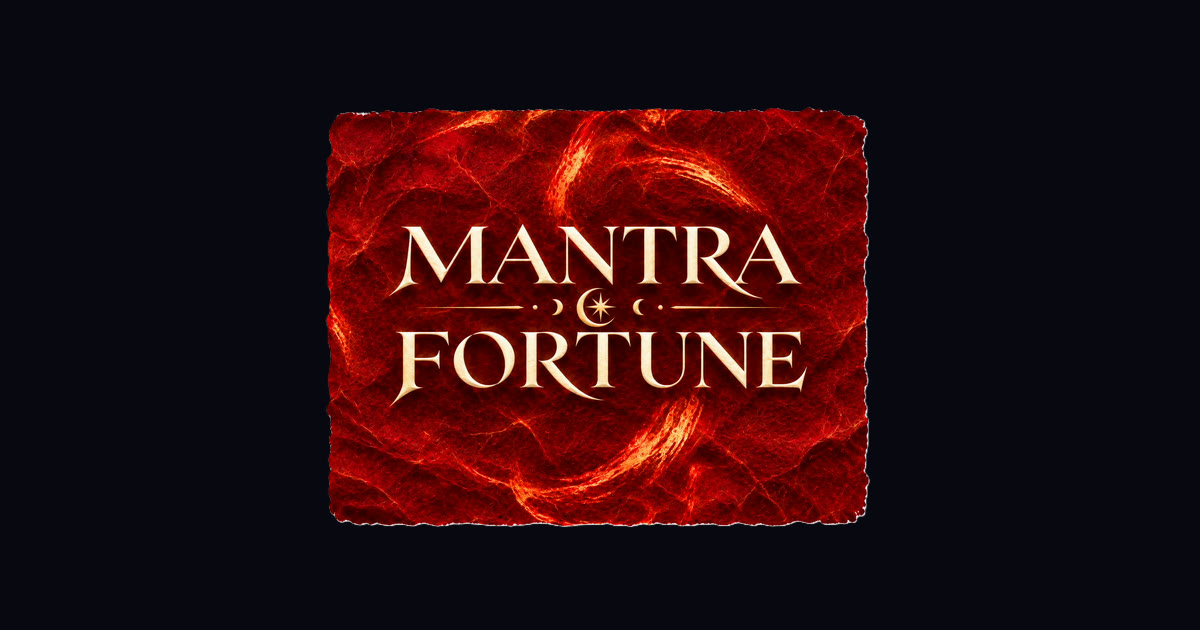
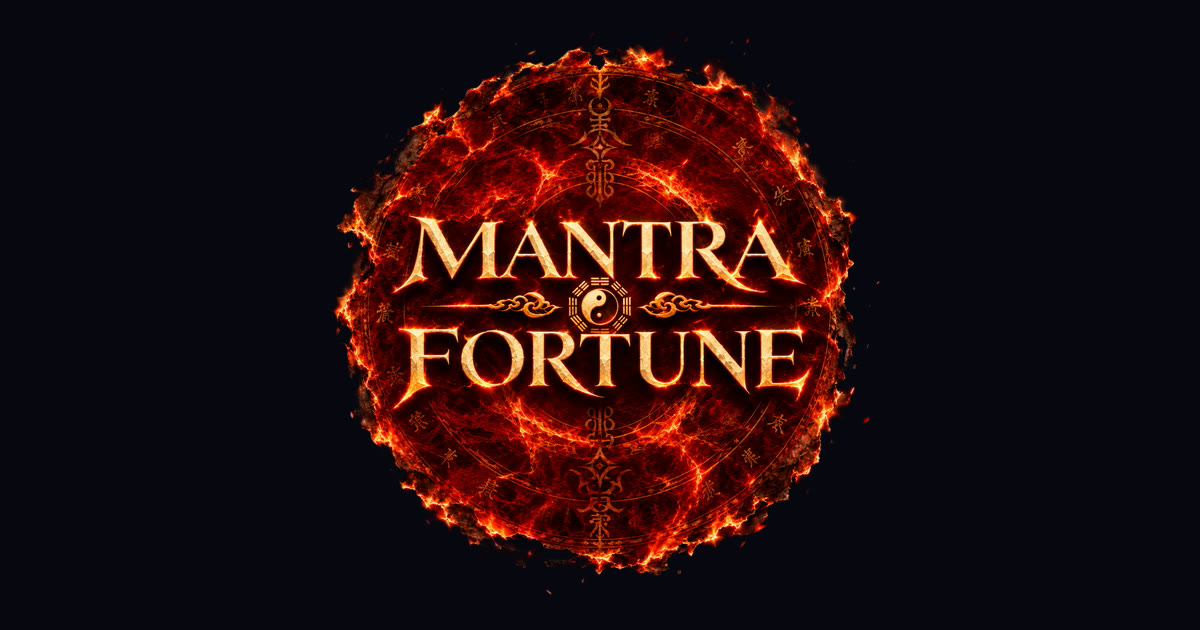
/report/ 로고를 새 불꽃 원형 로고로 교체(머리줄·커버·탭 아이콘·홈 화면 아이콘·공유 미리보기·공유 카드·PDF 표지)
- report/brand/ 6개 파일 정사각형으로 다시 만듦(320·640 webp, 64 favicon, 180 apple, og 1200x630)
- 참조에 ?v=20261120-fire, img width/height 정사각형으로

Changed region(s): [[0.2467, 0.0603, 0.74, 0.9349]]

diff --git a/report/index.html b/report/index.html
@@ -4,14 +4,14 @@
 <meta charset="utf-8">
 <meta name="viewport" content="width=device-width, initial-scale=1">
 <title>내 이야기의 시작 · 만트라 사주 무빙툰</title>
-<link rel="icon" type="image/png" sizes="64x64" href="/report/brand/favicon-64.png">
-<link rel="apple-touch-icon" href="/report/brand/apple-touch-icon.png">
-<meta property="og:image" content="https://mantrafortune.com/report/brand/og-image.jpg">
+<link rel="icon" type="image/png" sizes="64x64" href="/report/brand/favicon-64.png?v=20261120-fire">
+<link rel="apple-touch-icon" href="/report/brand/apple-touch-icon.png?v=20261120-fire">
+<meta property="og:image" content="https://mantrafortune.com/report/brand/og-image.jpg?v=20261120-fire">
 <meta property="og:image:width" content="1200">
 <meta property="og:image:height" content="630">
 <meta property="og:image:alt" content="만트라 포춘 MANTRA FORTUNE 로고">
 <meta name="twitter:card" content="summary_large_image">
-<meta name="twitter:image" content="https://mantrafortune.com/report/brand/og-image.jpg">
+<meta name="twitter:image" content="https://mantrafortune.com/report/brand/og-image.jpg?v=20261120-fire">
 <meta name="description" content="내 사주를 읽고 보는 이야기로. 기질과 관계, 일과 돈, 인생의 흐름을 무빙툰으로 체험하세요.">
 <meta property="og:title" content="내 이야기의 시작 · 만트라 사주 무빙툰">
 <meta property="og:description" content="사람마다 잘되는 시기가 다릅니다. 나의 기질과 올해의 흐름을 확인해 보세요.">
@@ -386,7 +386,7 @@ footer { padding: 70px 0 60px; color: var(--ink-3); font-size: .76rem; text-alig
   <script>/* 통합 첫 화면은 관리자가 열 때까지 숨김(functions/_gateway.js) — 열려 있을 때만 이 링크를 보여 준다. 자리는 그대로 두어 머리줄 배치가 흔들리지 않게 */
     (function () { try { fetch('/api/community/status', { cache: 'no-store' }).then(function (r) { return r.ok ? r.json() : null; }).then(function (d) { if (!d || d.gateway !== true) return; var a = document.getElementById('gateLink'); if (a) { a.style.visibility = ''; a.removeAttribute('tabindex'); a.removeAttribute('aria-hidden'); } }).catch(function () { }); } catch (e) { } })();
   </script>
-  <span class="brand" id="brandName"><img class="brand-mark" src="/report/brand/logo-320.webp" alt="" width="320" height="293" decoding="async"><span>만트라 포춘</span></span>
+  <span class="brand" id="brandName"><img class="brand-mark" src="/report/brand/logo-320.webp?v=20261120-fire" alt="" width="320" height="320" decoding="async"><span>만트라 포춘</span></span>
   <span class="r"><button type="button" id="skipLink">바로 분석하기</button></span>
 </header>
 <button type="button" id="autoBtn" hidden>⏸ 멈추기</button>

diff --git a/report/hub/index.html b/report/hub/index.html
@@ -4,14 +4,14 @@
 <meta charset="utf-8">
 <meta name="viewport" content="width=device-width, initial-scale=1, viewport-fit=cover">
 <title>운명의 이야기 · 만트라 포춘</title>
-<link rel="icon" type="image/png" sizes="64x64" href="/report/brand/favicon-64.png">
-<link rel="apple-touch-icon" href="/report/brand/apple-touch-icon.png">
-<meta property="og:image" content="https://mantrafortune.com/report/brand/og-image.jpg">
+<link rel="icon" type="image/png" sizes="64x64" href="/report/brand/favicon-64.png?v=20261120-fire">
+<link rel="apple-touch-icon" href="/report/brand/apple-touch-icon.png?v=20261120-fire">
+<meta property="og:image" content="https://mantrafortune.com/report/brand/og-image.jpg?v=20261120-fire">
 <meta property="og:image:width" content="1200">
 <meta property="og:image:height" content="630">
 <meta property="og:image:alt" content="만트라 포춘 MANTRA FORTUNE 로고">
 <meta name="twitter:card" content="summary_large_image">
-<meta name="twitter:image" content="https://mantrafortune.com/report/brand/og-image.jpg">
+<meta name="twitter:image" content="https://mantrafortune.com/report/brand/og-image.jpg?v=20261120-fire">
 <meta name="description" content="무료 타로 한 장으로 시작해 오늘의 운세, 나의 일주, 인생의 흐름까지 직접 눌러보며 만나는 사주 콘텐츠.">
 <meta property="og:title" content="운명의 이야기 · 만트라 포춘">
 <meta property="og:description" content="카드 한 장 뽑고, 오늘의 흐름과 나의 일주를 확인해 보세요.">
@@ -35,7 +35,7 @@
 <div class="glow" aria-hidden="true"></div>
 <header class="top" id="top">
   <button type="button" class="tb" id="tbBack" aria-label="뒤로">‹</button>
-  <a class="brand" href="#/" aria-label="허브 처음으로"><img class="brand-mark" src="/report/brand/logo-320.webp" alt="" width="320" height="293" decoding="async"><span>만트라 포춘</span></a>
+  <a class="brand" href="#/" aria-label="허브 처음으로"><img class="brand-mark" src="/report/brand/logo-320.webp?v=20261120-fire" alt="" width="320" height="320" decoding="async"><span>만트라 포춘</span></a>
   <a class="tb tr" href="/report/" id="tbLanding">처음 화면</a>
 </header>
 <main id="screen" tabindex="-1" aria-live="polite"></main>

diff --git a/report/v2/pdf.js b/report/v2/pdf.js
@@ -81,7 +81,7 @@
     var cov1 = rep.chapters[0] || {};
     // 1 표지
     var kw = [sd.dayMaster.el + ' 기운', sd.dominantGroup + ' 중심', sd.strength.band].concat(sd.sewoon && sd.sewoon.season ? ['올해 ' + S[sd.sewoon.season]] : []);
-    out.push('<div class="pg" style="--c:' + color + '"><div class="cov"><img class="lg" src="/report/brand/logo-320.webp" alt="MANTRA FORTUNE"><div class="k">MANTRA FORTUNE · 사주 무빙툰</div><h1>' + (who ? esc(who) + '님의<br>' : '') + '인생 사용설명서</h1><p>' + esc(sd.dayPillar.ko) + '일주 · ' + esc(sd.dayPillar.hanja) + '</p><div class="t">' + kw.slice(0, 4).map(function (k) { return '<span>' + esc(k) + '</span>'; }).join('') + '</div><p style="margin-top:46px;font-size:12px">' + esc(cov1.headline || '') + '</p><p style="margin-top:90px;font-size:10.5px">' + new Date().getFullYear() + ' · 이 리포트는 사주 구조를 바탕으로 한 참고용 콘텐츠입니다</p></div></div>'); n++;
+    out.push('<div class="pg" style="--c:' + color + '"><div class="cov"><img class="lg" src="/report/brand/logo-320.webp?v=20261120-fire" alt="MANTRA FORTUNE"><div class="k">MANTRA FORTUNE · 사주 무빙툰</div><h1>' + (who ? esc(who) + '님의<br>' : '') + '인생 사용설명서</h1><p>' + esc(sd.dayPillar.ko) + '일주 · ' + esc(sd.dayPillar.hanja) + '</p><div class="t">' + kw.slice(0, 4).map(function (k) { return '<span>' + esc(k) + '</span>'; }).join('') + '</div><p style="margin-top:46px;font-size:12px">' + esc(cov1.headline || '') + '</p><p style="margin-top:90px;font-size:10.5px">' + new Date().getFullYear() + ' · 이 리포트는 사주 구조를 바탕으로 한 참고용 콘텐츠입니다</p></div></div>'); n++;
     // 2 나의 사주
     var P = sd.pillars, cell = function (k, l) { var p = P[k]; return '<td>' + (p ? '<div style="font-size:21px;font-family:\'Noto Serif KR\',serif">' + esc(p.hanja) + '</div><div style="color:#6B6A63;font-size:11px">' + esc(p.ko) + '</div>' : '<span style="color:#9A978A">시간 모름</span>') + '</td>'; };
     var tg = function (k) { var p = P[k]; return '<td>' + (p ? esc((p.stemTG || '') + ' / ' + (p.branchTG || '')) : '-') + '</td>'; };

diff --git a/report/story/story.js b/report/story/story.js
@@ -695,7 +695,7 @@
     if (!cv || cv.show === false) { el.hidden = true; el.innerHTML = ''; return; }
     var url = media(cv.src), alt = pick(cv.alt) || '';
     // 2026-11-20 로고(MANTRA FORTUNE): 커버 이미지가 없으면 빛무리 가운데, 있으면 제목 위. cover.logo:false 로 끈다
-    var logoOn = cv.logo !== false, logo = function (cls) { return '<img class="' + cls + '" src="/report/brand/logo-640.webp" alt="만트라 포춘 MANTRA FORTUNE" width="640" height="586" decoding="async" fetchpriority="high">'; };
+    var logoOn = cv.logo !== false, logo = function (cls) { return '<img class="' + cls + '" src="/report/brand/logo-640.webp?v=20261120-fire" alt="만트라 포춘 MANTRA FORTUNE" width="640" height="640" decoding="async" fetchpriority="high">'; };
     var img = url ? '<img class="cv-img" src="' + esc(url) + '" alt="' + esc(alt) + '" decoding="async" fetchpriority="high">' : '<div class="cv-glow" role="img" aria-label="' + esc(alt) + '"></div>' + (logoOn ? logo('cv-logo') : '');
     function an(v) { return /^(float|glow|both|pulse|sway|shimmer)$/.test(v) ? ' an-' + v : ''; }
     // 등장 효과: 안쪽 span(.cv-ti)에 걸어 바깥의 지속 효과(float·glow 등)와 겹치지 않게 한다
@@ -728,7 +728,7 @@
   function meta() { // 이름·탭 제목·공유 설명
     var S1 = C.settings || {}, skip = document.getElementById('skipLink'), bn = document.getElementById('brandName');
     cover();
-    if (bn) bn.innerHTML = '<img class="brand-mark" src="/report/brand/logo-320.webp" alt="" width="320" height="293" decoding="async"><span>' + esc(S1.brandName || '').split(String.fromCharCode(10)).join('<br>') + '</span>';   // 2026-11-20 로고 표시
+    if (bn) bn.innerHTML = '<img class="brand-mark" src="/report/brand/logo-320.webp?v=20261120-fire" alt="" width="320" height="320" decoding="async"><span>' + esc(S1.brandName || '').split(String.fromCharCode(10)).join('<br>') + '</span>';   // 2026-11-20 로고 표시
     if (root.Ambient) root.Ambient.apply(S1.ambient);
     if (skip) {
       var sl = S1.skipLink || {};

diff --git a/report/v2/index.html b/report/v2/index.html
@@ -4,14 +4,14 @@
 <meta charset="utf-8">
 <meta name="viewport" content="width=device-width, initial-scale=1, viewport-fit=cover">
 <title>運路 · 만트라 사주 무빙툰</title>
-<link rel="icon" type="image/png" sizes="64x64" href="/report/brand/favicon-64.png">
-<link rel="apple-touch-icon" href="/report/brand/apple-touch-icon.png">
-<meta property="og:image" content="https://mantrafortune.com/report/brand/og-image.jpg">
+<link rel="icon" type="image/png" sizes="64x64" href="/report/brand/favicon-64.png?v=20261120-fire">
+<link rel="apple-touch-icon" href="/report/brand/apple-touch-icon.png?v=20261120-fire">
+<meta property="og:image" content="https://mantrafortune.com/report/brand/og-image.jpg?v=20261120-fire">
 <meta property="og:image:width" content="1200">
 <meta property="og:image:height" content="630">
 <meta property="og:image:alt" content="만트라 포춘 MANTRA FORTUNE 로고">
 <meta name="twitter:card" content="summary_large_image">
-<meta name="twitter:image" content="https://mantrafortune.com/report/brand/og-image.jpg">
+<meta name="twitter:image" content="https://mantrafortune.com/report/brand/og-image.jpg?v=20261120-fire">
 <meta name="description" content="사주를 입력하면 내 운이 흐르는 길을 한 편의 영화처럼 — 타고난 명(命)부터 10년마다 달라지는 운, 움직일 때와 준비할 때까지 이어집니다.">
 <meta name="theme-color" content="#080A11">
 <meta name="robots" content="noindex">

diff --git a/report/newyear/index.html b/report/newyear/index.html
@@ -4,14 +4,14 @@
 <meta charset="utf-8">
 <meta name="viewport" content="width=device-width, initial-scale=1, viewport-fit=cover">
 <title>2027 정미년 토정비결 신년운세 · 만트라</title>
-<link rel="icon" type="image/png" sizes="64x64" href="/report/brand/favicon-64.png">
-<link rel="apple-touch-icon" href="/report/brand/apple-touch-icon.png">
-<meta property="og:image" content="https://mantrafortune.com/report/brand/og-image.jpg">
+<link rel="icon" type="image/png" sizes="64x64" href="/report/brand/favicon-64.png?v=20261120-fire">
+<link rel="apple-touch-icon" href="/report/brand/apple-touch-icon.png?v=20261120-fire">
+<meta property="og:image" content="https://mantrafortune.com/report/brand/og-image.jpg?v=20261120-fire">
 <meta property="og:image:width" content="1200">
 <meta property="og:image:height" content="630">
 <meta property="og:image:alt" content="만트라 포춘 MANTRA FORTUNE 로고">
 <meta name="twitter:card" content="summary_large_image">
-<meta name="twitter:image" content="https://mantrafortune.com/report/brand/og-image.jpg">
+<meta name="twitter:image" content="https://mantrafortune.com/report/brand/og-image.jpg?v=20261120-fire">
 <meta name="description" content="토정비결 괘(규장각본 원문)와 사주로 읽는 2027 정미년 — 총운, 재물·직업·인연·건강, 음력 12개월, 결정적 시기와 행동 지침.">
 <meta name="theme-color" content="#0B0710">
 <meta name="robots" content="noindex">

diff --git a/report/legal/products.html b/report/legal/products.html
@@ -4,14 +4,14 @@
 <meta charset="utf-8">
 <meta name="viewport" content="width=device-width,initial-scale=1">
 <title>상품 안내 · 만트라 사주 무빙툰</title>
-<link rel="icon" type="image/png" sizes="64x64" href="/report/brand/favicon-64.png">
-<link rel="apple-touch-icon" href="/report/brand/apple-touch-icon.png">
-<meta property="og:image" content="https://mantrafortune.com/report/brand/og-image.jpg">
+<link rel="icon" type="image/png" sizes="64x64" href="/report/brand/favicon-64.png?v=20261120-fire">
+<link rel="apple-touch-icon" href="/report/brand/apple-touch-icon.png?v=20261120-fire">
+<meta property="og:image" content="https://mantrafortune.com/report/brand/og-image.jpg?v=20261120-fire">
 <meta property="og:image:width" content="1200">
 <meta property="og:image:height" content="630">
 <meta property="og:image:alt" content="만트라 포춘 MANTRA FORTUNE 로고">
 <meta name="twitter:card" content="summary_large_image">
-<meta name="twitter:image" content="https://mantrafortune.com/report/brand/og-image.jpg">
+<meta name="twitter:image" content="https://mantrafortune.com/report/brand/og-image.jpg?v=20261120-fire">
 <link rel="stylesheet" href="legal.css">
 <style>
   .grid { display: grid; gap: 12px; margin: 12px 0; }

diff --git a/report/story/index.html b/report/story/index.html
@@ -1,10 +1,10 @@
 <!doctype html>
 <html lang="ko"><head><meta charset="utf-8"><title>만트라 사주 무빙툰</title><meta http-equiv="refresh" content="0; url=/report/"><script>location.replace("/report/" + location.search);</script></head><body></body></html>
-<link rel="icon" type="image/png" sizes="64x64" href="/report/brand/favicon-64.png">
-<link rel="apple-touch-icon" href="/report/brand/apple-touch-icon.png">
-<meta property="og:image" content="https://mantrafortune.com/report/brand/og-image.jpg">
+<link rel="icon" type="image/png" sizes="64x64" href="/report/brand/favicon-64.png?v=20261120-fire">
+<link rel="apple-touch-icon" href="/report/brand/apple-touch-icon.png?v=20261120-fire">
+<meta property="og:image" content="https://mantrafortune.com/report/brand/og-image.jpg?v=20261120-fire">
 <meta property="og:image:width" content="1200">
 <meta property="og:image:height" content="630">
 <meta property="og:image:alt" content="만트라 포춘 MANTRA FORTUNE 로고">
 <meta name="twitter:card" content="summary_large_image">
-<meta name="twitter:image" content="https://mantrafortune.com/report/brand/og-image.jpg">
+<meta name="twitter:image" content="https://mantrafortune.com/report/brand/og-image.jpg?v=20261120-fire">

diff --git a/report/auth-return.html b/report/auth-return.html
@@ -5,8 +5,8 @@
 <meta name="viewport" content="width=device-width, initial-scale=1">
 <meta name="robots" content="noindex, nofollow">
 <title>로그인 중 · 만트라</title>
-<link rel="icon" type="image/png" sizes="64x64" href="/report/brand/favicon-64.png">
-<link rel="apple-touch-icon" href="/report/brand/apple-touch-icon.png">
+<link rel="icon" type="image/png" sizes="64x64" href="/report/brand/favicon-64.png?v=20261120-fire">
+<link rel="apple-touch-icon" href="/report/brand/apple-touch-icon.png?v=20261120-fire">
 <!-- 로그인 돌아오는 곳(인연의 광장 등 /report/ 밖 화면용).
      Supabase 로그인(카카오·구글)은 돌아올 주소가 /report/** 로만 등록돼 있어서, /report/ 아래 이 페이지로 돌아와 세션을 받은 뒤 원래 화면(to)으로 보낸다.
      · 카카오(Supabase): 주소의 ?code= 를 supabase-js 가 세션으로 바꾼다(PKCE — 같은 사이트 저장소의 확인 값 사용)

diff --git a/report/v2/sharecard.js b/report/v2/sharecard.js
@@ -23,7 +23,7 @@
   }
   function loadImg(u) { return new Promise(function (res) { if (!u) return res(null); var i = new Image(); i.crossOrigin = 'anonymous'; i.onload = function () { res(i); }; i.onerror = function () { res(null); }; i.src = u; }); }
 
-  var LOGO = '/report/brand/logo-320.webp';   // 2026-11-20 로고(못 불러오면 예전 글자)
+  var LOGO = '/report/brand/logo-320.webp?v=20261120-fire';   // 2026-11-20 로고(못 불러오면 예전 글자)
   function draw(cv, d, img, logo) {
     cv.width = W; cv.height = H; var x = cv.getContext('2d'), p = PAL[d.el] || PAL['수'];
     var g = x.createLinearGradient(0, 0, 0, H); g.addColorStop(0, '#070913'); g.addColorStop(.45, p[0]); g.addColorStop(1, '#05060d'); x.fillStyle = g; x.fillRect(0, 0, W, H);

diff --git a/report/my/index.html b/report/my/index.html
@@ -5,8 +5,8 @@
 <meta name="viewport" content="width=device-width,initial-scale=1">
 <meta name="robots" content="noindex">
 <title>내 구매 내역 · 만트라 사주 무빙툰</title>
-<link rel="icon" type="image/png" sizes="64x64" href="/report/brand/favicon-64.png">
-<link rel="apple-touch-icon" href="/report/brand/apple-touch-icon.png">
+<link rel="icon" type="image/png" sizes="64x64" href="/report/brand/favicon-64.png?v=20261120-fire">
+<link rel="apple-touch-icon" href="/report/brand/apple-touch-icon.png?v=20261120-fire">
 <link rel="stylesheet" href="/report/legal/legal.css">
 <style>
   .who { display: flex; justify-content: space-between; gap: 10px; align-items: center; flex-wrap: wrap; color: var(--ink-2); font-size: 14px; margin: 0 0 14px; }

diff --git a/report/legal/privacy.html b/report/legal/privacy.html
@@ -4,8 +4,8 @@
 <meta charset="utf-8">
 <meta name="viewport" content="width=device-width,initial-scale=1">
 <title>개인정보처리방침 · 만트라 사주 무빙툰</title>
-<link rel="icon" type="image/png" sizes="64x64" href="/report/brand/favicon-64.png">
-<link rel="apple-touch-icon" href="/report/brand/apple-touch-icon.png">
+<link rel="icon" type="image/png" sizes="64x64" href="/report/brand/favicon-64.png?v=20261120-fire">
+<link rel="apple-touch-icon" href="/report/brand/apple-touch-icon.png?v=20261120-fire">
 <link rel="stylesheet" href="legal.css">
 </head>
 <body data-legal-footer>
